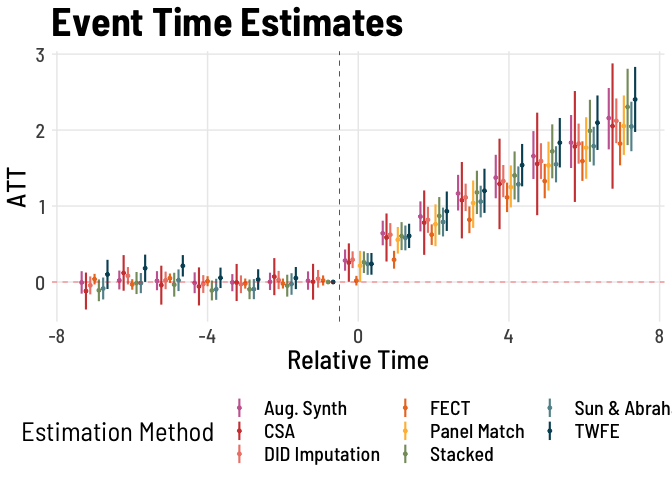
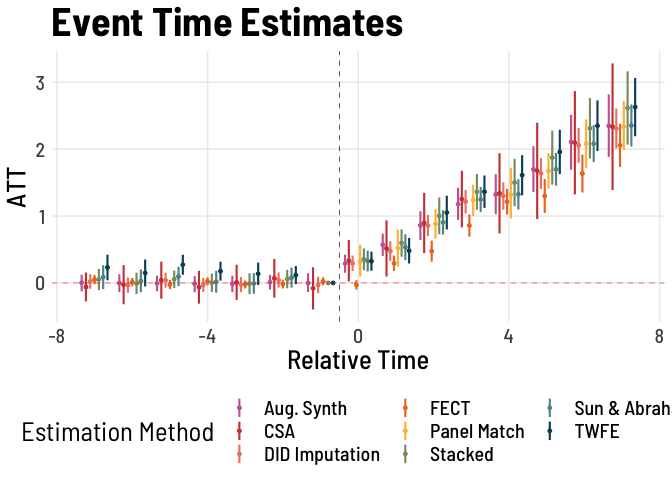
fully rendered

diff --git a/ComparingDiD.md b/ComparingDiD.md
@@ -1,7 +1,7 @@
 Comparing Staggered DiD
 ================
 Florian M. Hollenbach
-2021-12-23
+2021-12-27
 
 # Comparing different staggered Difference-in-Differences Estimators
 
@@ -187,7 +187,9 @@ The next model to estimate is the doubly-robust estimator developed by
 Callaway and Sant’Anna (2021b) and available in the `did` package
 (Callaway and Sant’Anna 2021a). We use the `not-yet-treated` as the
 control group, standard errors are clustered at the treatment level
-(state).
+(state). It should be noted that Callaway and Sant’Anna (2021b) use
+simultaneous inference procedures which are robust to multiple testing
+but increase the size of confidence intervals.
 
 ``` r
 csa.est<- att_gt(yname= 'dep_var',
@@ -265,21 +267,21 @@ fect.res <- data %>%
     ## Criterion: Mean Squared Prediction Error
     ## Interactive fixed effects model...
     ## 
-    ##  r = 0; sigma2 = 0.24868; IC = -0.98299; PC = 0.23671; MSPE = 0.24649; GMSPE = 0.06791; Moment = 0.05506; MSPTATT = 0.00221; MSE = 0.23648*
-    ##  r = 1; sigma2 = 0.24068; IC = -0.61054; PC = 0.28386; MSPE = 0.27212; GMSPE = 0.07254; Moment = 0.05273; MSPTATT = 0.00189; MSE = 0.21418
-    ##  r = 2; sigma2 = 0.23271; IC = -0.24254; PC = 0.32751; MSPE = 0.31739; GMSPE = 0.07795; Moment = 0.05142; MSPTATT = 0.00191; MSE = 0.19156
-    ##  r = 3; sigma2 = 0.22596; IC = 0.12619; PC = 0.36960; MSPE = 0.37184; GMSPE = 0.09157; Moment = 0.05182; MSPTATT = 0.00145; MSE = 0.17329
-    ##  r = 4; sigma2 = 0.21894; IC = 0.48931; PC = 0.40819; MSPE = 0.43924; GMSPE = 0.10808; Moment = 0.05712; MSPTATT = 0.00095; MSE = 0.15502
-    ##  r = 5; sigma2 = 0.21123; IC = 0.84472; PC = 0.44223; MSPE = 0.46994; GMSPE = 0.11416; Moment = 0.05996; MSPTATT = 0.00101; MSE = 0.13664
+    ##  r = 0; sigma2 = 0.24594; IC = -0.98374; PC = 0.23377; MSPE = 0.25846; GMSPE = 0.06675; Moment = 0.05937; MSPTATT = 0.00123; MSE = 0.23419*
+    ##  r = 1; sigma2 = 0.23805; IC = -0.60102; PC = 0.28198; MSPE = 0.29146; GMSPE = 0.07945; Moment = 0.06798; MSPTATT = 0.00127; MSE = 0.21116
+    ##  r = 2; sigma2 = 0.23098; IC = -0.21938; PC = 0.32776; MSPE = 0.34917; GMSPE = 0.09068; Moment = 0.06388; MSPTATT = 0.00090; MSE = 0.19200
+    ##  r = 3; sigma2 = 0.22354; IC = 0.15610; PC = 0.36970; MSPE = 0.43069; GMSPE = 0.10096; Moment = 0.07597; MSPTATT = 0.00096; MSE = 0.17147
+    ##  r = 4; sigma2 = 0.21703; IC = 0.53122; PC = 0.41001; MSPE = 0.48773; GMSPE = 0.11763; Moment = 0.07404; MSPTATT = 0.00098; MSE = 0.15237
+    ##  r = 5; sigma2 = 0.20927; IC = 0.89591; PC = 0.44468; MSPE = 0.53300; GMSPE = 0.14317; Moment = 0.07045; MSPTATT = 0.00071; MSE = 0.13361
     ## 
     ##  r* = 0
     ## 
     ## Matrix completion method...
     ## 
-    ##  lambda.norm = 1.00000; MSPE = 0.24649; GMSPE = 0.06791; Moment = 0.05506; MSPTATT = 0.00221; MSE = 0.23648*
-    ##  lambda.norm = 0.42170; MSPE = 0.25252; GMSPE = 0.07139; Moment = 0.05085; MSPTATT = 0.00073; MSE = 0.08617
-    ##  lambda.norm = 0.17783; MSPE = 0.26131; GMSPE = 0.07649; Moment = 0.05065; MSPTATT = 0.00013; MSE = 0.01581
-    ##  lambda.norm = 0.07499; MSPE = 0.25861; GMSPE = 0.07483; Moment = 0.05107; MSPTATT = 0.00002; MSE = 0.00282
+    ##  lambda.norm = 1.00000; MSPE = 0.25846; GMSPE = 0.06675; Moment = 0.05937; MSPTATT = 0.00123; MSE = 0.23419*
+    ##  lambda.norm = 0.42170; MSPE = 0.27182; GMSPE = 0.07157; Moment = 0.06584; MSPTATT = 0.00038; MSE = 0.07751
+    ##  lambda.norm = 0.17783; MSPE = 0.28195; GMSPE = 0.07701; Moment = 0.06617; MSPTATT = 0.00007; MSE = 0.01424
+    ##  lambda.norm = 0.07499; MSPE = 0.27824; GMSPE = 0.07668; Moment = 0.06540; MSPTATT = 0.00001; MSE = 0.00254
     ## 
     ##  lambda.norm* = 1
     ## 
@@ -296,8 +298,8 @@ fect.res <- data %>%
     ## 
     ## ATT:
     ##                             ATT   S.E. CI.lower CI.upper p.value
-    ## Tr obs equally weighted   3.696 0.3343    3.040    4.351       0
-    ## Tr units equally weighted 2.824 0.2585    2.318    3.331       0
+    ## Tr obs equally weighted   4.214 0.3575    3.514    4.915       0
+    ## Tr units equally weighted 3.180 0.3016    2.588    3.771       0
 
 ``` r
 fect <- fect.res$est.att %>% 
